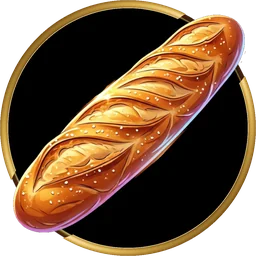
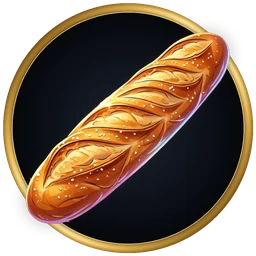
Univers: pianeta panetteria rifatto (baguette nel cerchio con anello d'oro metallico)
Claude-Session: https://claude.ai/code/session_01EXMUytzutzxdVzuuB6cfqW

diff --git a/domiers/universe/index.html b/domiers/universe/index.html
@@ -1453,7 +1453,7 @@ html.lite .alien svg{filter:none!important}
   <section data-id="qui" class="slide fcenter" data-dur="12500">
     <div class="fk"><span lang="fr">QUI EN FAIT PARTIE</span><span lang="en">WHO’S IN</span><span lang="it">CHI NE FA PARTE</span></div>
     <h2 style="font-size:54px"><span lang="fr">Un réseau pour tous : maison et commerce.</span><span lang="en">One network for everyone: homes and businesses.</span><span lang="it">Una rete per tutti: casa e commercio.</span></h2>
-    <div class="qgrid"><div class="qc" style="transition-delay:0.50s"><i style="background-image:url(img/633990333972.webp)"></i><div><b><span lang="fr">Gérances</span><span lang="en">Property managers</span><span lang="it">Gestioni immobiliari</span></b><p><span lang="fr">Leur centrale chiffrée : immeubles, locataires, demandes, factures.</span><span lang="en">Their own encrypted hub: buildings, tenants, requests, invoices.</span><span lang="it">La loro centrale cifrata: immobili, inquilini, richieste, fatture.</span></p></div></div><div class="qc" style="transition-delay:0.85s"><i style="background-image:url(img/3a8bbe4f9f4a.webp)"></i><div><b><span lang="fr">Agences et fonds</span><span lang="en">Agencies and funds</span><span lang="it">Agenzie e fondi</span></b><p><span lang="fr">Louer et vendre pour le compte de tiers : patrimoine, annonces, rendement.</span><span lang="en">Renting and selling for others: portfolio, listings, returns.</span><span lang="it">Affittare e vendere per conto terzi: patrimonio, annunci, rendimento.</span></p></div></div><div class="qc" style="transition-delay:1.20s"><i style="background-image:url(img/099e7d010e04.webp)"></i><div><b><span lang="fr">Propriétaires privés</span><span lang="en">Private owners</span><span lang="it">Proprietari privati</span></b><p><span lang="fr">Un appartement ou quelques chambres : locataires et réparations, sans intermédiaire.</span><span lang="en">A flat or a few rooms: tenants and repairs, no middlemen.</span><span lang="it">Un appartamento o qualche camera: inquilini e riparazioni, senza intermediari.</span></p></div></div><div class="qc" style="transition-delay:1.55s"><i style="background-image:url(img/abcc1cb57753.webp)"></i><div><b><span lang="fr">Hôtels</span><span lang="en">Hotels</span><span lang="it">Hotel</span></b><p><span lang="fr">Chambres, arrivées et départs. Les clients reçoivent code de porte, menu et taxi.</span><span lang="en">Rooms, arrivals and departures. Guests get door code, menu and taxi.</span><span lang="it">Camere, arrivi e partenze. I clienti ricevono codice della porta, menu e taxi.</span></p></div></div><div class="qc" style="transition-delay:1.90s"><i style="background-image:url(img/4432ea3781f6.webp)"></i><div><b><span lang="fr">Locations courte durée</span><span lang="en">Short-term rentals</span><span lang="it">Affitti brevi</span></b><p><span lang="fr">Nuitées, photos d’arrivée, codes de porte dès le jour J.</span><span lang="en">Night stays, arrival photos, door codes from day one.</span><span lang="it">Notti, foto all’arrivo, codici della porta dal giorno dell’arrivo.</span></p></div></div><div class="qc" style="transition-delay:2.25s"><i style="background-image:url(img/82ec7e96951f.webp)"></i><div><b><span lang="fr">Taxis et chauffeurs</span><span lang="en">Taxis and drivers</span><span lang="it">Taxi e autisti</span></b><p><span lang="fr">De l’aéroport au dîner, du van à la limousine.</span><span lang="en">From the airport to dinner, from van to limousine.</span><span lang="it">Dall’aeroporto alla cena, dal van alla limousine.</span></p></div></div><div class="qc" style="transition-delay:2.60s"><i style="background-image:url(img/7bfcbe1b44b0.webp)"></i><div><b><span lang="fr">Restaurants</span><span lang="en">Restaurants</span><span lang="it">Ristoranti</span></b><p><span lang="fr">Une panne en plein service ? On intervient 24h/24. Menu du jour et annonces dans toutes les apps.</span><span lang="en">A breakdown mid-service? We step in 24/7. Daily menu and ads in every app.</span><span lang="it">Un guasto in pieno servizio? Interveniamo 24 ore su 24. Menu del giorno e annunci in tutte le app.</span></p></div></div><div class="qc" style="transition-delay:2.95s"><i style="background-image:url(img/02de1c2bf1e3.webp)"></i><div><b><span lang="fr">Bars</span><span lang="en">Bars</span><span lang="it">Bar</span></b><p><span lang="fr">Soirées, happy hours et événements annoncés en temps réel, et un dépannage à toute heure.</span><span lang="en">Nights out, happy hours and events announced in real time, and repairs at any hour.</span><span lang="it">Serate, happy hour ed eventi annunciati in tempo reale, e pronto intervento a ogni ora.</span></p></div></div><div class="qc" style="transition-delay:3.30s"><i style="background-image:url(img/boulangerie.webp)"></i><div><b><span lang="fr">Boulangeries</span><span lang="en">Bakeries</span><span lang="it">Panetterie</span></b><p><span lang="fr">Le pain chaud annoncé dès l’aube ; four ou vitrine en panne ? On intervient.</span><span lang="en">Fresh bread announced at dawn; oven or display case down? We step in.</span><span lang="it">Il pane caldo annunciato all’alba; forno o vetrina guasti? Interveniamo.</span></p></div></div></div>
+    <div class="qgrid"><div class="qc" style="transition-delay:0.50s"><i style="background-image:url(img/633990333972.webp)"></i><div><b><span lang="fr">Gérances</span><span lang="en">Property managers</span><span lang="it">Gestioni immobiliari</span></b><p><span lang="fr">Leur centrale chiffrée : immeubles, locataires, demandes, factures.</span><span lang="en">Their own encrypted hub: buildings, tenants, requests, invoices.</span><span lang="it">La loro centrale cifrata: immobili, inquilini, richieste, fatture.</span></p></div></div><div class="qc" style="transition-delay:0.85s"><i style="background-image:url(img/3a8bbe4f9f4a.webp)"></i><div><b><span lang="fr">Agences et fonds</span><span lang="en">Agencies and funds</span><span lang="it">Agenzie e fondi</span></b><p><span lang="fr">Louer et vendre pour le compte de tiers : patrimoine, annonces, rendement.</span><span lang="en">Renting and selling for others: portfolio, listings, returns.</span><span lang="it">Affittare e vendere per conto terzi: patrimonio, annunci, rendimento.</span></p></div></div><div class="qc" style="transition-delay:1.20s"><i style="background-image:url(img/099e7d010e04.webp)"></i><div><b><span lang="fr">Propriétaires privés</span><span lang="en">Private owners</span><span lang="it">Proprietari privati</span></b><p><span lang="fr">Un appartement ou quelques chambres : locataires et réparations, sans intermédiaire.</span><span lang="en">A flat or a few rooms: tenants and repairs, no middlemen.</span><span lang="it">Un appartamento o qualche camera: inquilini e riparazioni, senza intermediari.</span></p></div></div><div class="qc" style="transition-delay:1.55s"><i style="background-image:url(img/abcc1cb57753.webp)"></i><div><b><span lang="fr">Hôtels</span><span lang="en">Hotels</span><span lang="it">Hotel</span></b><p><span lang="fr">Chambres, arrivées et départs. Les clients reçoivent code de porte, menu et taxi.</span><span lang="en">Rooms, arrivals and departures. Guests get door code, menu and taxi.</span><span lang="it">Camere, arrivi e partenze. I clienti ricevono codice della porta, menu e taxi.</span></p></div></div><div class="qc" style="transition-delay:1.90s"><i style="background-image:url(img/4432ea3781f6.webp)"></i><div><b><span lang="fr">Locations courte durée</span><span lang="en">Short-term rentals</span><span lang="it">Affitti brevi</span></b><p><span lang="fr">Nuitées, photos d’arrivée, codes de porte dès le jour J.</span><span lang="en">Night stays, arrival photos, door codes from day one.</span><span lang="it">Notti, foto all’arrivo, codici della porta dal giorno dell’arrivo.</span></p></div></div><div class="qc" style="transition-delay:2.25s"><i style="background-image:url(img/82ec7e96951f.webp)"></i><div><b><span lang="fr">Taxis et chauffeurs</span><span lang="en">Taxis and drivers</span><span lang="it">Taxi e autisti</span></b><p><span lang="fr">De l’aéroport au dîner, du van à la limousine.</span><span lang="en">From the airport to dinner, from van to limousine.</span><span lang="it">Dall’aeroporto alla cena, dal van alla limousine.</span></p></div></div><div class="qc" style="transition-delay:2.60s"><i style="background-image:url(img/7bfcbe1b44b0.webp)"></i><div><b><span lang="fr">Restaurants</span><span lang="en">Restaurants</span><span lang="it">Ristoranti</span></b><p><span lang="fr">Une panne en plein service ? On intervient 24h/24. Menu du jour et annonces dans toutes les apps.</span><span lang="en">A breakdown mid-service? We step in 24/7. Daily menu and ads in every app.</span><span lang="it">Un guasto in pieno servizio? Interveniamo 24 ore su 24. Menu del giorno e annunci in tutte le app.</span></p></div></div><div class="qc" style="transition-delay:2.95s"><i style="background-image:url(img/02de1c2bf1e3.webp)"></i><div><b><span lang="fr">Bars</span><span lang="en">Bars</span><span lang="it">Bar</span></b><p><span lang="fr">Soirées, happy hours et événements annoncés en temps réel, et un dépannage à toute heure.</span><span lang="en">Nights out, happy hours and events announced in real time, and repairs at any hour.</span><span lang="it">Serate, happy hour ed eventi annunciati in tempo reale, e pronto intervento a ogni ora.</span></p></div></div><div class="qc" style="transition-delay:3.30s"><i style="background-image:url(img/boulangerie.webp?v=2)"></i><div><b><span lang="fr">Boulangeries</span><span lang="en">Bakeries</span><span lang="it">Panetterie</span></b><p><span lang="fr">Le pain chaud annoncé dès l’aube ; four ou vitrine en panne ? On intervient.</span><span lang="en">Fresh bread announced at dawn; oven or display case down? We step in.</span><span lang="it">Il pane caldo annunciato all’alba; forno o vetrina guasti? Interveniamo.</span></p></div></div></div>
   </section>
   <section data-id="etapes" class="slide fcenter" data-dur="11000">
     <div class="fk"><span lang="fr">COMMENT ÇA MARCHE</span><span lang="en">HOW IT WORKS</span><span lang="it">COME FUNZIONA</span></div>
@@ -1788,7 +1788,7 @@ const DZ={k:(Math.max(screen.width,screen.height)<1100||window.LITE?0.5:1),
 document.addEventListener('touchmove',e=>{ if(e.touches.length>1) e.preventDefault(); },{passive:false});
 let lastTouchEnd=0; document.addEventListener('touchend',e=>{ const n=Date.now(); if(n-lastTouchEnd<300&&!e.target.closest('input,textarea,select')) e.preventDefault(); lastTouchEnd=n; },{passive:false});
 const VEH={"van": "img/6d393e0b11bd.webp", "suv": "img/c6f578d43bad.webp", "limousine": "img/beddf2e9af25.webp"};
-const ICONS={"proprio": "img/099e7d010e04.webp", "locat": "img/9952e35264e5.webp", "agences": "img/3a8bbe4f9f4a.webp", "gerances": "img/633990333972.webp", "hotel": "img/abcc1cb57753.webp", "airbnb": "img/4432ea3781f6.webp", "taxi": "img/82ec7e96951f.webp", "horeca": "img/7bfcbe1b44b0.webp", "disco": "img/959e8f3ad4dc.webp", "night": "img/02de1c2bf1e3.webp", "domiste": "img/af1fd72c2541.webp", "ospiti": "img/fa653d61f9cd.webp", "megafono": "img/161899925359.webp", "boul": "img/boulangerie.webp"};
+const ICONS={"proprio": "img/099e7d010e04.webp", "locat": "img/9952e35264e5.webp", "agences": "img/3a8bbe4f9f4a.webp", "gerances": "img/633990333972.webp", "hotel": "img/abcc1cb57753.webp", "airbnb": "img/4432ea3781f6.webp", "taxi": "img/82ec7e96951f.webp", "horeca": "img/7bfcbe1b44b0.webp", "disco": "img/959e8f3ad4dc.webp", "night": "img/02de1c2bf1e3.webp", "domiste": "img/af1fd72c2541.webp", "ospiti": "img/fa653d61f9cd.webp", "megafono": "img/161899925359.webp", "boul": "img/boulangerie.webp?v=2"};
 
 (function(){
   const s=document.querySelector('.slide.owner'); if(!s) return;
